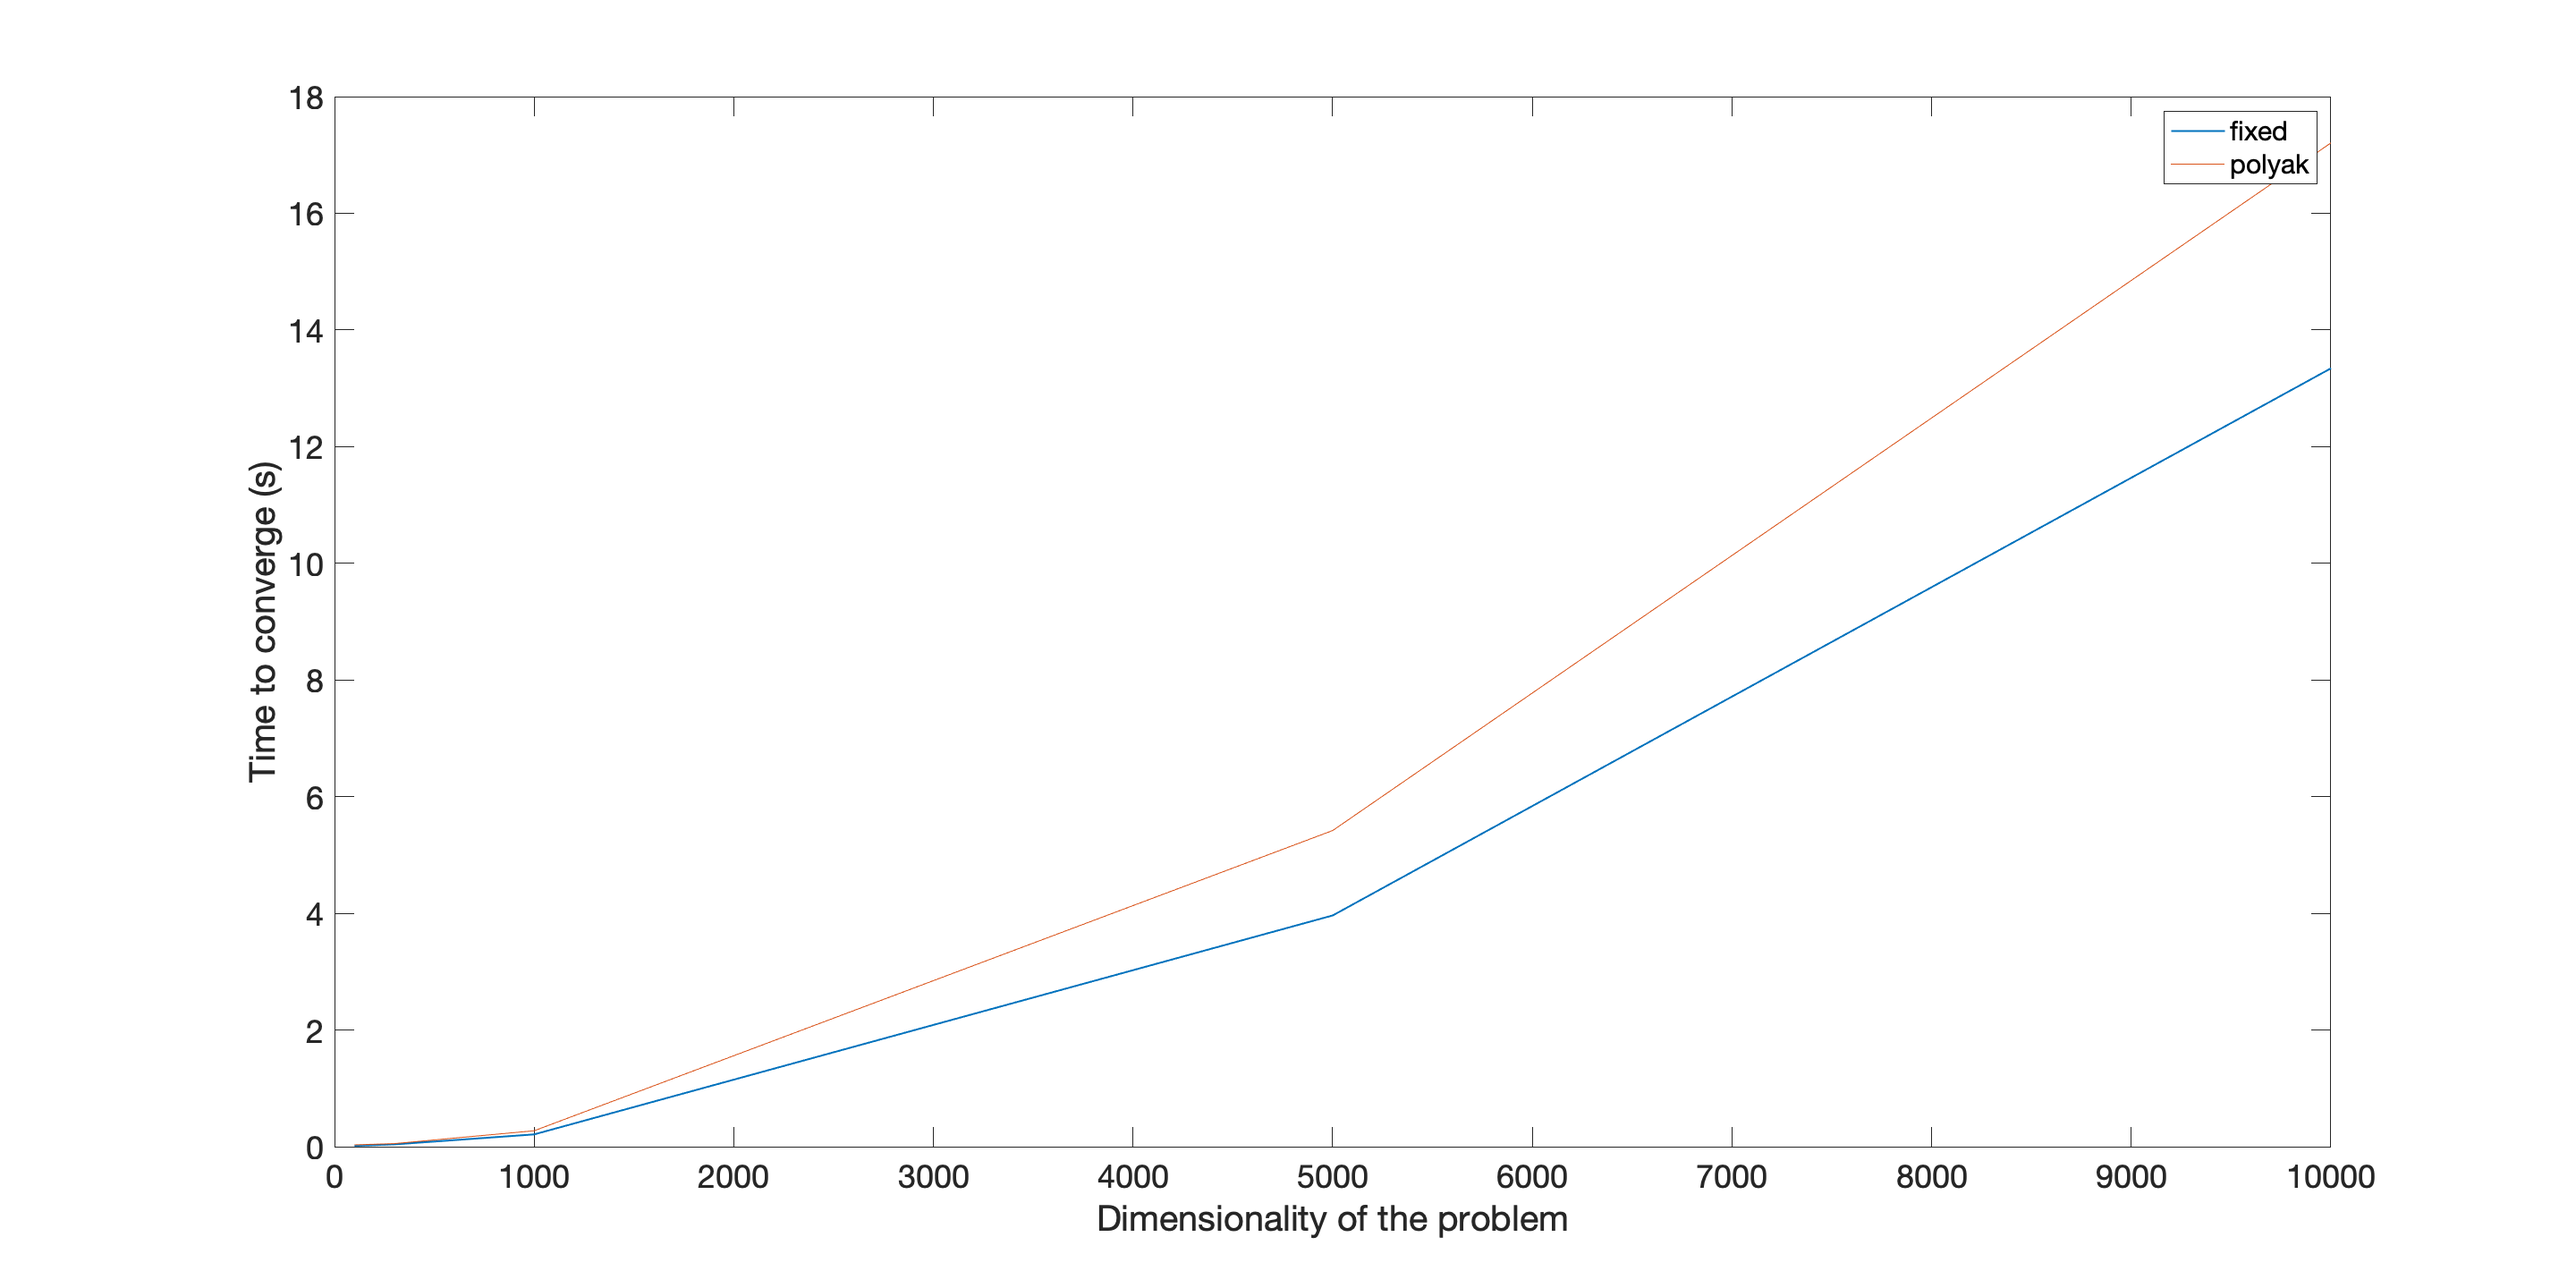
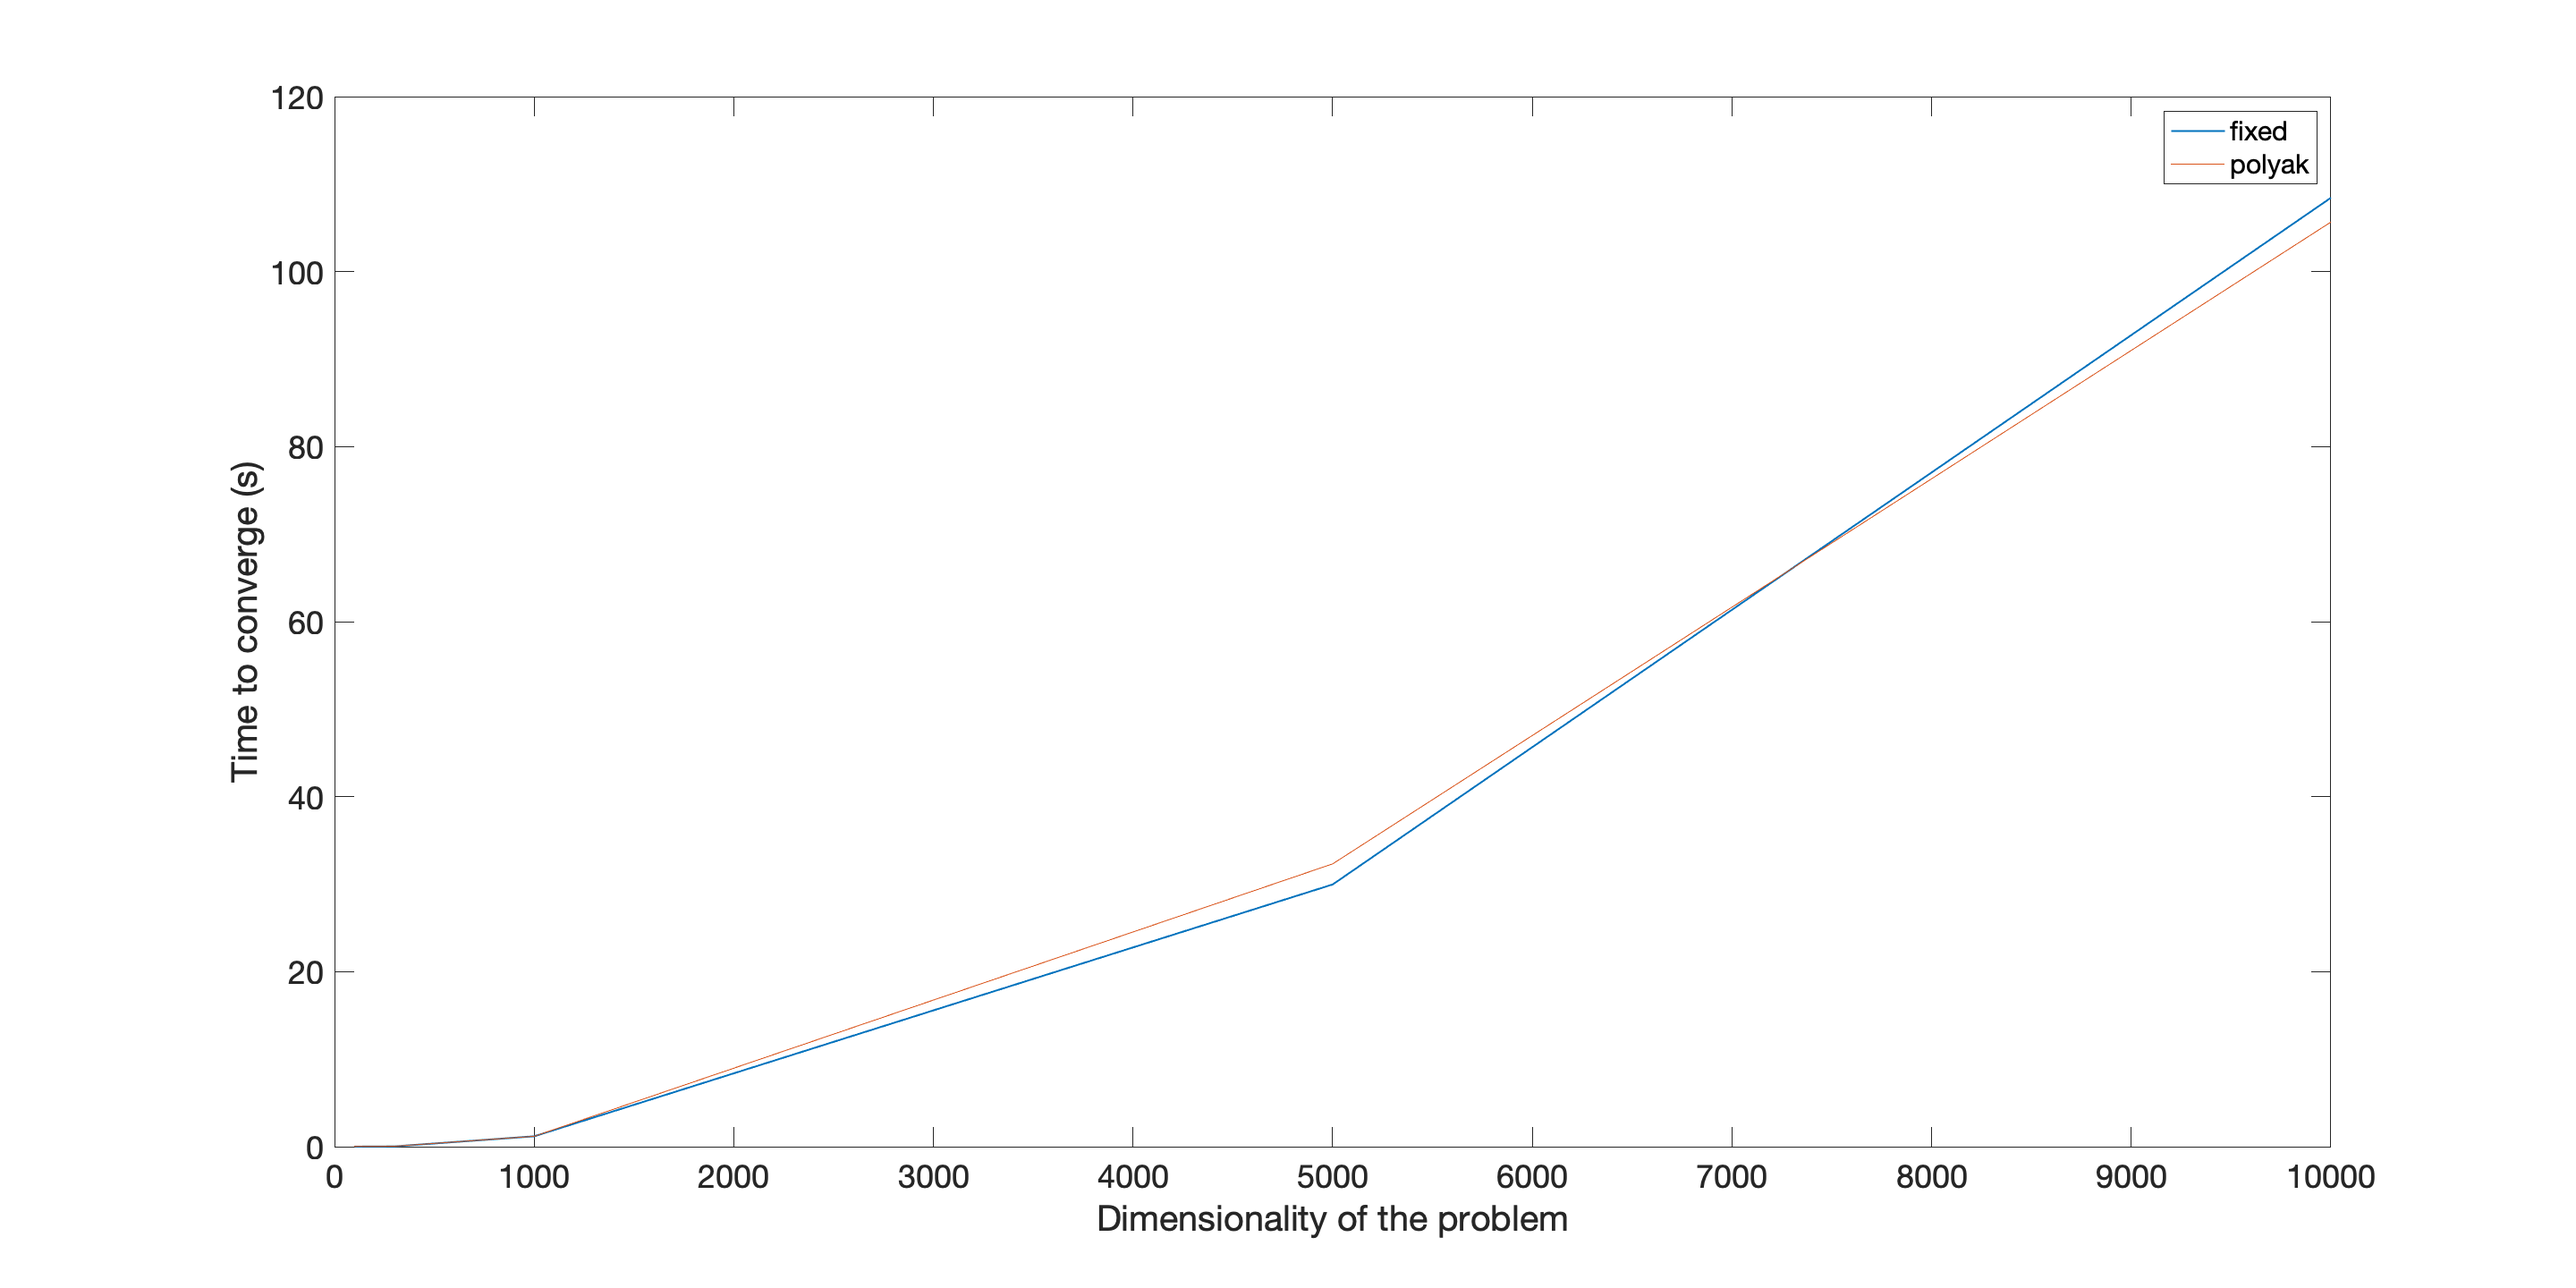
added plots for dim vs time

diff --git a/src/plot_dimension_vs_time.m b/src/plot_dimension_vs_time.m
@@ -2,19 +2,19 @@ dimensionalities = [100, 300, 1000, 5000 10000];
 
 % vector of timing for fixed step size
 fixed_timing_100 = [1.084006e-02, 1.222169e-02, 1.385670e-02, 1.623224e-02, 1.498239e-02, 2.454957e-02];
-fixed_timing = [mean(fixed_timing_100), 3.930736e-02, 2.105392e-01, 3.963731e+00, 1.334200e+01];
+fixed_timing = [mean(fixed_timing_100), 3.590035e-02, 1.186103e+00, 2.996689e+01, 1.084384e+02];
 
 % vector of timing for polyak step size
 polyak_timing_100 = [1.049083e-02, 2.188802e-02, 2.545656e-02, 2.026503e-02, 2.878615e-02, 7.883645e-02];
-polyak_timing = [mean(polyak_timing_100), 5.253568e-02, 2.729058e-01, 5.419650e+00, 1.720615e+01];
+polyak_timing = [mean(polyak_timing_100), 4.896072e-02, 1.186414e+00, 3.232316e+01, 1.056644e+02];
 
 figure('DefaultAxesFontSize',18);
-semilogx(dimensionalities, fixed_timing, 'LineWidth',1);
+plot(dimensionalities, fixed_timing, 'LineWidth',1);
 hold on
-semilogx(dimensionalities, polyak_timing);
+plot(dimensionalities, polyak_timing);
 xlabel('Dimensionality of the problem', 'LineWidth',1);
 ylabel('Time to converge (s)');
 lgd = legend('fixed', 'polyak');
 lgd.FontSize = 15;
 
-fplot(@(x) (0.00016)*x.*log(x), [100, 10000]);
+% fplot(@(x) (0.0011)*x.*log(x), [100, 10000]);
